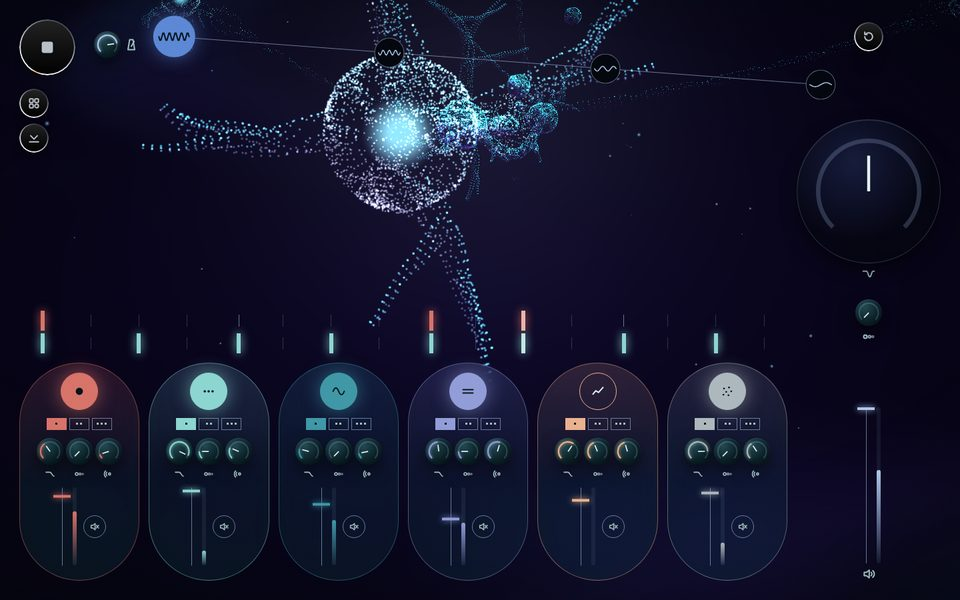
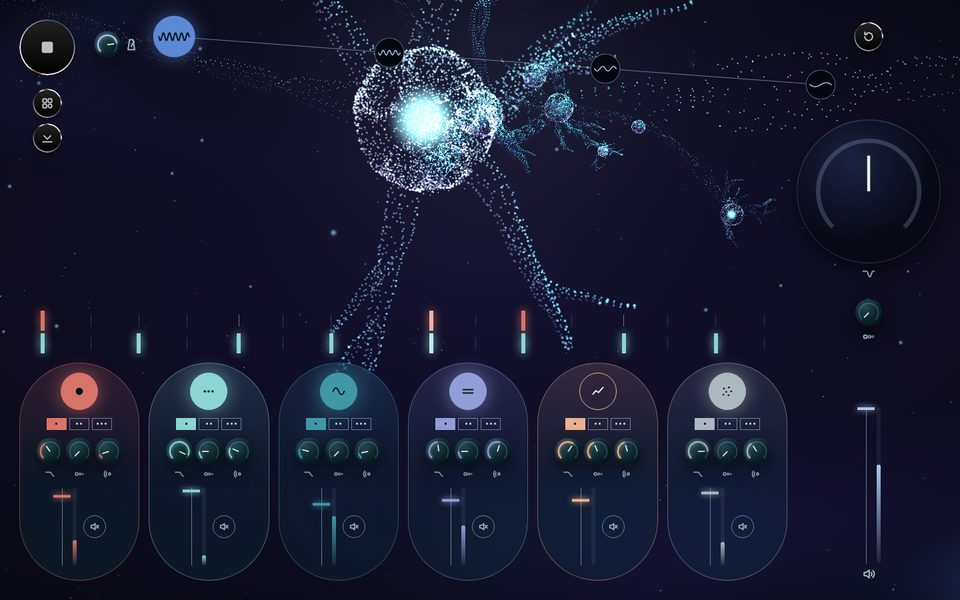
docs: README and screenshots for the panel switch and backgrounds, drop the ideas section

diff --git a/README.md b/README.md
@@ -18,13 +18,11 @@ python3 -m http.server 8000
 
 Открыть http://localhost:8000. Сначала заставка: стеклянная плитка со знаком и кнопка «Войти» (`Esc` тоже закрывает). Звук она не запускает. Потом круглая кнопка слева сверху.
 
-Под кнопкой старта две кнопки: «Варианты» раскрывает три ряда (виды нейронов, фон, идеи), вторая прячет панели (`H`), чтобы смотреть на нейроны. У каждой кнопки подсказка по наведению. Выбор хранится в адресе:
+Под кнопкой старта две кнопки: «Варианты» раскрывает три ряда (виды нейронов, фон, вид пульта), вторая прячет панели (`H`), чтобы смотреть на нейроны. Обе стоят на оси кнопки старта. У каждой кнопки подсказка по наведению. Выбор хранится в адресе:
 
 - `?view=flight|stream|field|cascade|tunnel|wave`: вид нейронов, без параметра `field`
-- `?bg=dust|calcium|tracts`: фон (у `tunnel` и `wave` фон свой)
-- `?ideas=breath,prune,trace`: включённые идеи
-- `?ui=metal`: главные кнопки в жидком металле
-- `?ui=glass` и `?ui=liquid`: весь пульт в стекле или в жидком металле, плюс ручки панорамы и свинга (ниже)
+- `?bg=dust|calcium|tracts`: фон, во всех видах
+- `?ui=metal|glass|liquid`: вид пульта, без параметра обычный (ниже)
 - `?intro=0`: без заставки
 
 Шесть капсул равной ширины, ряд кончается по краю растра. Сброс, часть 4, кольцо DJ-фильтра и громкость стоят на одной вертикали. Колонка выхода шириной с кольцо, поэтому поля слева и справа равны.
@@ -132,6 +130,8 @@ python3 -m http.server 8000
 
 Фон рисуется отдельной сценой той же камерой до вида, поэтому меняется без пересоздания нейронов (`src/views/background.js`). Яркость фона падает вместе с насыщенностью сета.
 
+У `tunnel` и `wave` под фоном лежит подложка эталона (цвет и всполохи): порядок «подложка → фон → нейроны». Там фон идёт за камерой, как звёзды, иначе цепь улетела бы из него, и светит вдвое ярче, чтобы не теряться на подложке.
+
 - `dust`: 5 000 мелких мерцающих точек, как звёзды в глубине.
 - `calcium`: 2 400 клеток-колец, каждая вспыхивает и медленно гаснет в своём ритме, как на кальциевой съёмке нейронов. К концу сета вспышки реже.
 - `tracts`: 320 волокон белого вещества, цвет по направлению, как на картах трактов; по каждому бежит волна.
@@ -139,19 +139,6 @@ python3 -m http.server 8000
 |                                 |                               |
 | ------------------------------- | ----------------------------- |
 | ![Кальций](docs/bg-calcium.jpg) | ![Тракты](docs/bg-tracts.jpg) |
-
-## Идеи
-
-Четыре кнопки в последнем ряду «Вариантов». Первые три усиливают высказывание сета, последняя оставляет след сыгранного сета.
-
-| Идея | Что делает | Где в коде |
-| --- | --- | --- |
-| Дыхание | круг в центре расширяется на вдохе и сжимается на выдохе; цикл в тактах из части сета: 2, 2, 3, 3 такта, это около 10 вдохов в минуту в части 1 и около 6 в части 4. Шары дышат вместе с кругом | `breath.js`, `parts[].breathBars` |
-| Угасание связей | к части 4 между шарами остаётся пятая часть связей: перекличка нейронов стихает вместе с музыкой | `views/swarm.js`, `PART_LOOK.links` |
-| Партитура | сет «Спуск» играет сам: 64 такта, 4 части по 16, смены вариаций внутри частей, в конце уходят мелодия и бас. Кольцо на кнопке показывает, сколько сыграно. Руками можно вмешаться, стоп снимает партитуру | `score.js`, `settings.js: score` |
-| Гипнограмма | лента над растром бита: линия спускается ступенями от части 1 к части 4, громкость даёт ей рябь, как у ЭЭГ; под линией растр слоёв; сохраняется в PNG | `trace.js` |
-
-![Дыхание, гипнограмма и фон «кальций»](docs/ideas.jpg)
 
 ## Заставка и металл
 
@@ -164,9 +151,11 @@ python3 -m http.server 8000
 | --------------------------- | ------------------------- |
 | ![Заставка](docs/intro.jpg) | ![Металл](docs/metal.jpg) |
 
-## Стекло и жидкий металл
+## Вид пульта
 
-Два варианта всего пульта в материалах заставки. Раскладка, клавиши и звук те же, что в основном виде; основной вид и `?ui=metal` не меняются.
+Третий ряд «Вариантов» переключает вид пульта на ходу, музыка не останавливается: обычный, металл (`?ui=metal`), стекло (`?ui=glass`), жидкий металл (`?ui=liquid`). Прошлый вид снимается целиком: каждая функция, которая надевает металл, возвращает функцию, которая его снимает (`applyUi` в `main.js`).
+
+Стекло и жидкий металл: два варианта всего пульта в материалах заставки. Раскладка, клавиши и звук те же, что в обычном виде.
 
 - `?ui=glass`: светлые стеклянные плитки на тёмно-синем фоне, как плитка заставки. Капсулы слоёв со стеклянным бликом и радужной кромкой в углах, ручки стеклянными куполами, кнопки в металлических кольцах с синим значком. По умолчанию вид `tunnel`.
 - `?ui=liquid`: чёрное железо. Жидкий металл на каждой ручке и кнопке (71 элемент), цвет слоя только в светодиодах: полоска над капсулой, шкала ручки, нажатый шаг, лесенка уровня. По умолчанию вид `wave`.
@@ -194,7 +183,7 @@ source → Filter → FeedbackDelay → Reverb → Channel ─┐ ×6
 
 ```
 src/
-  settings.js   данные: слои, вариации, части, партитура, мастер, клавиши
+  settings.js   данные: слои, вариации, части, мастер, клавиши
   audio.js      звуковой граф и транспорт, без DOM
   controls.js   ручка, движок, кнопки, растр, переключатели
   visuals.js    рендерер, фон и вид, сглаженное состояние музыки, сон
@@ -206,16 +195,12 @@ src/
   glass.js      стеклянное появление знака
   metal.js      жидкий металл для кнопок
   liquid.js     жидкий металл на всех элементах одним контекстом
-  ideas.js      кнопки идей и их связь с инструментом
-  breath.js     круг дыхания
-  score.js      автопилот партитуры
-  trace.js      гипнограмма
   icons.js      SVG-значки
   main.js       точка входа
 styles/
   reset.css
-  bold/         раскладка по блокам, Ideas.css: идеи,
-                MiniConsole.css: скрытые панели, Intro.css, Metal.css,
+  bold/         раскладка по блокам, MiniConsole.css: скрытые панели,
+                Intro.css, Metal.css,
                 Skin.css: общее для стекла и жидкого металла
   glass/        Glass.css: цвета и материал варианта ?ui=glass
   liquid/       Liquid.css: цвета и материал варианта ?ui=liquid
